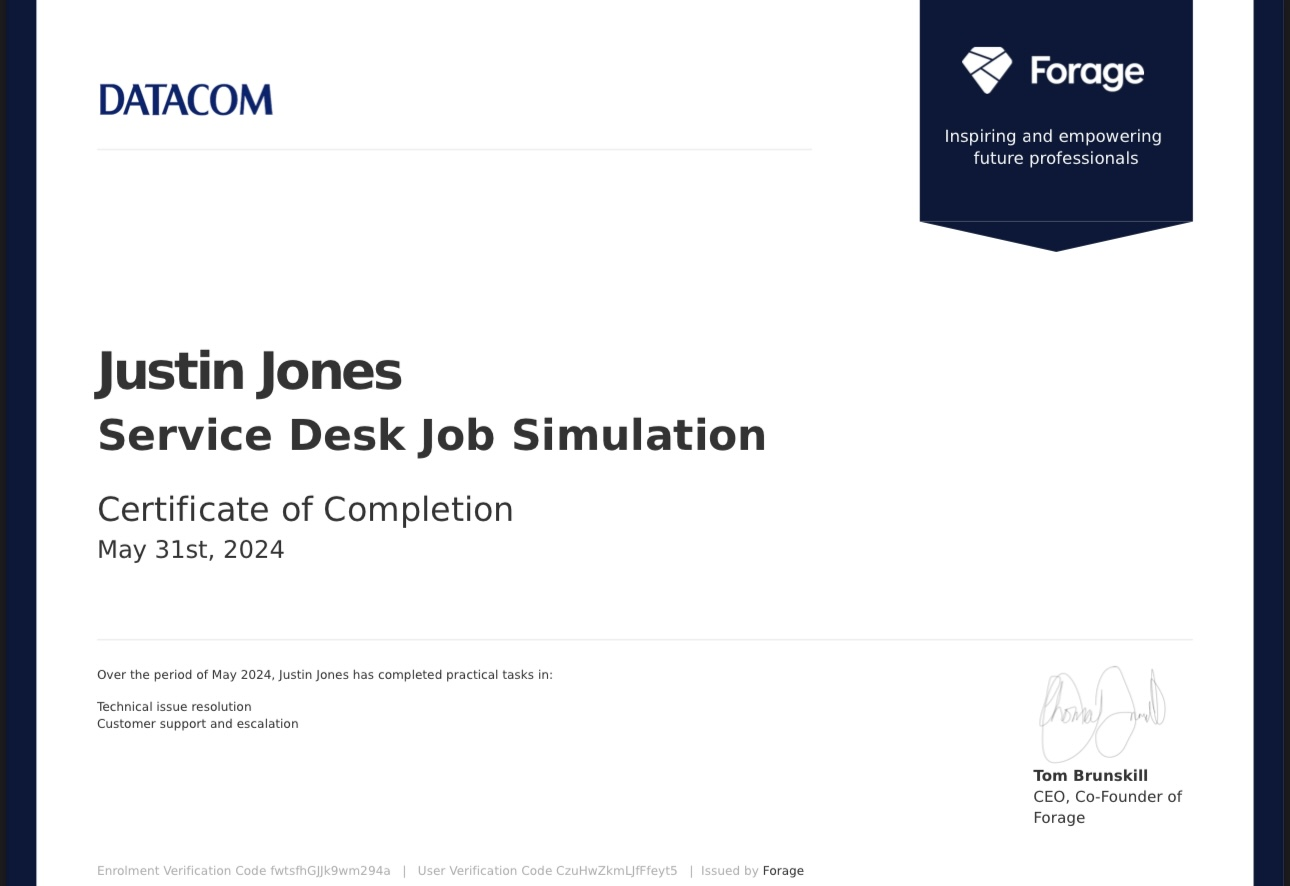
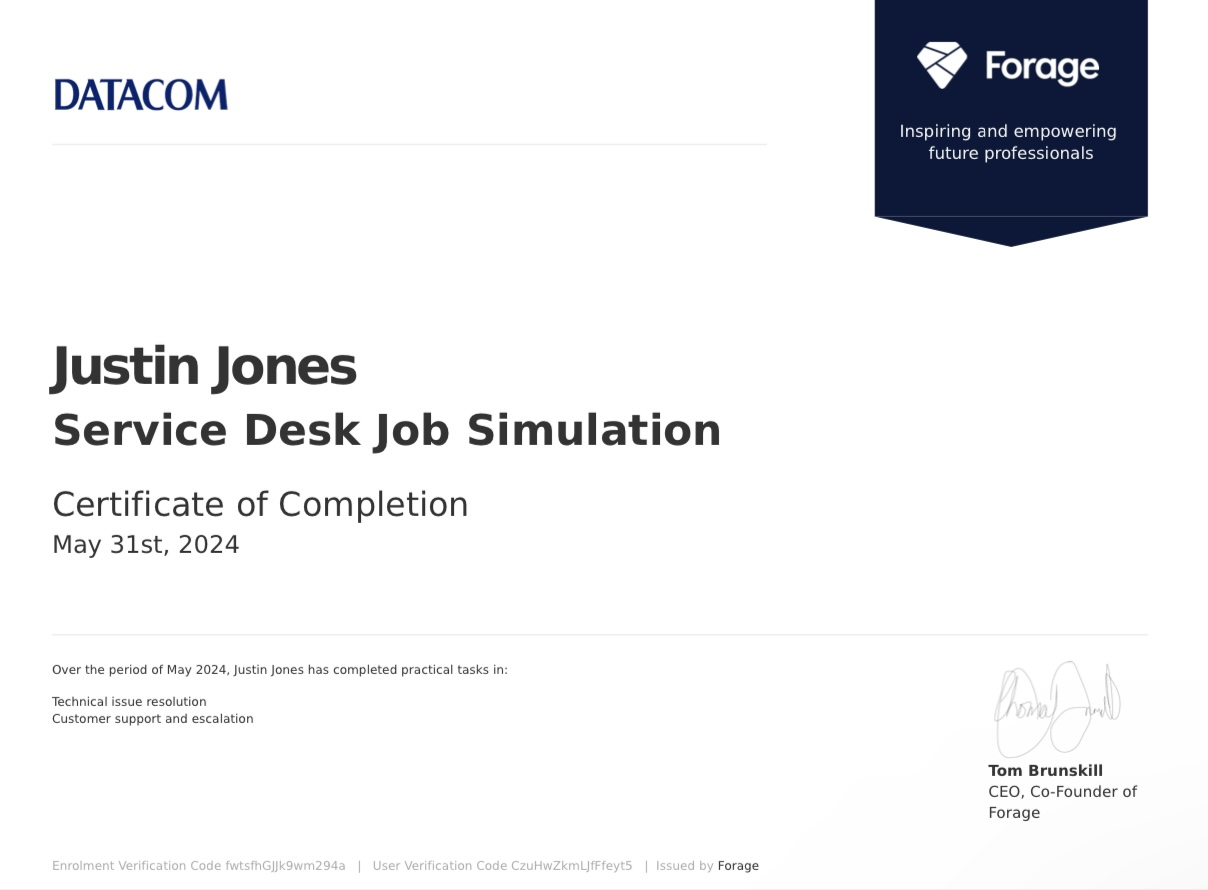
updated datacom cert

diff --git a/Certifications.html b/Certifications.html
@@ -95,7 +95,7 @@
             </a></p>
 
         <p class="p-list">Provided support in incident management and critical issue prioritization. Gained knowledge of ITIL processes, problem-solving, and effective communication, ensuring efficient service management and maintaining customer satisfaction during IT crises.</p>
-<img src="images/Certs/DatacomCert.jpg" style="margin-left: 22.5px;" alt="datacom" height="25%" width="25%" >
+<img src="images/Certs/DatacomCert.jpg" style="margin-left: 22.5px; border-radius: 5px;" alt="datacom" height="25%" width="25%" >
         <div style="width: 100%; height: 15px;"></div>
 
 
